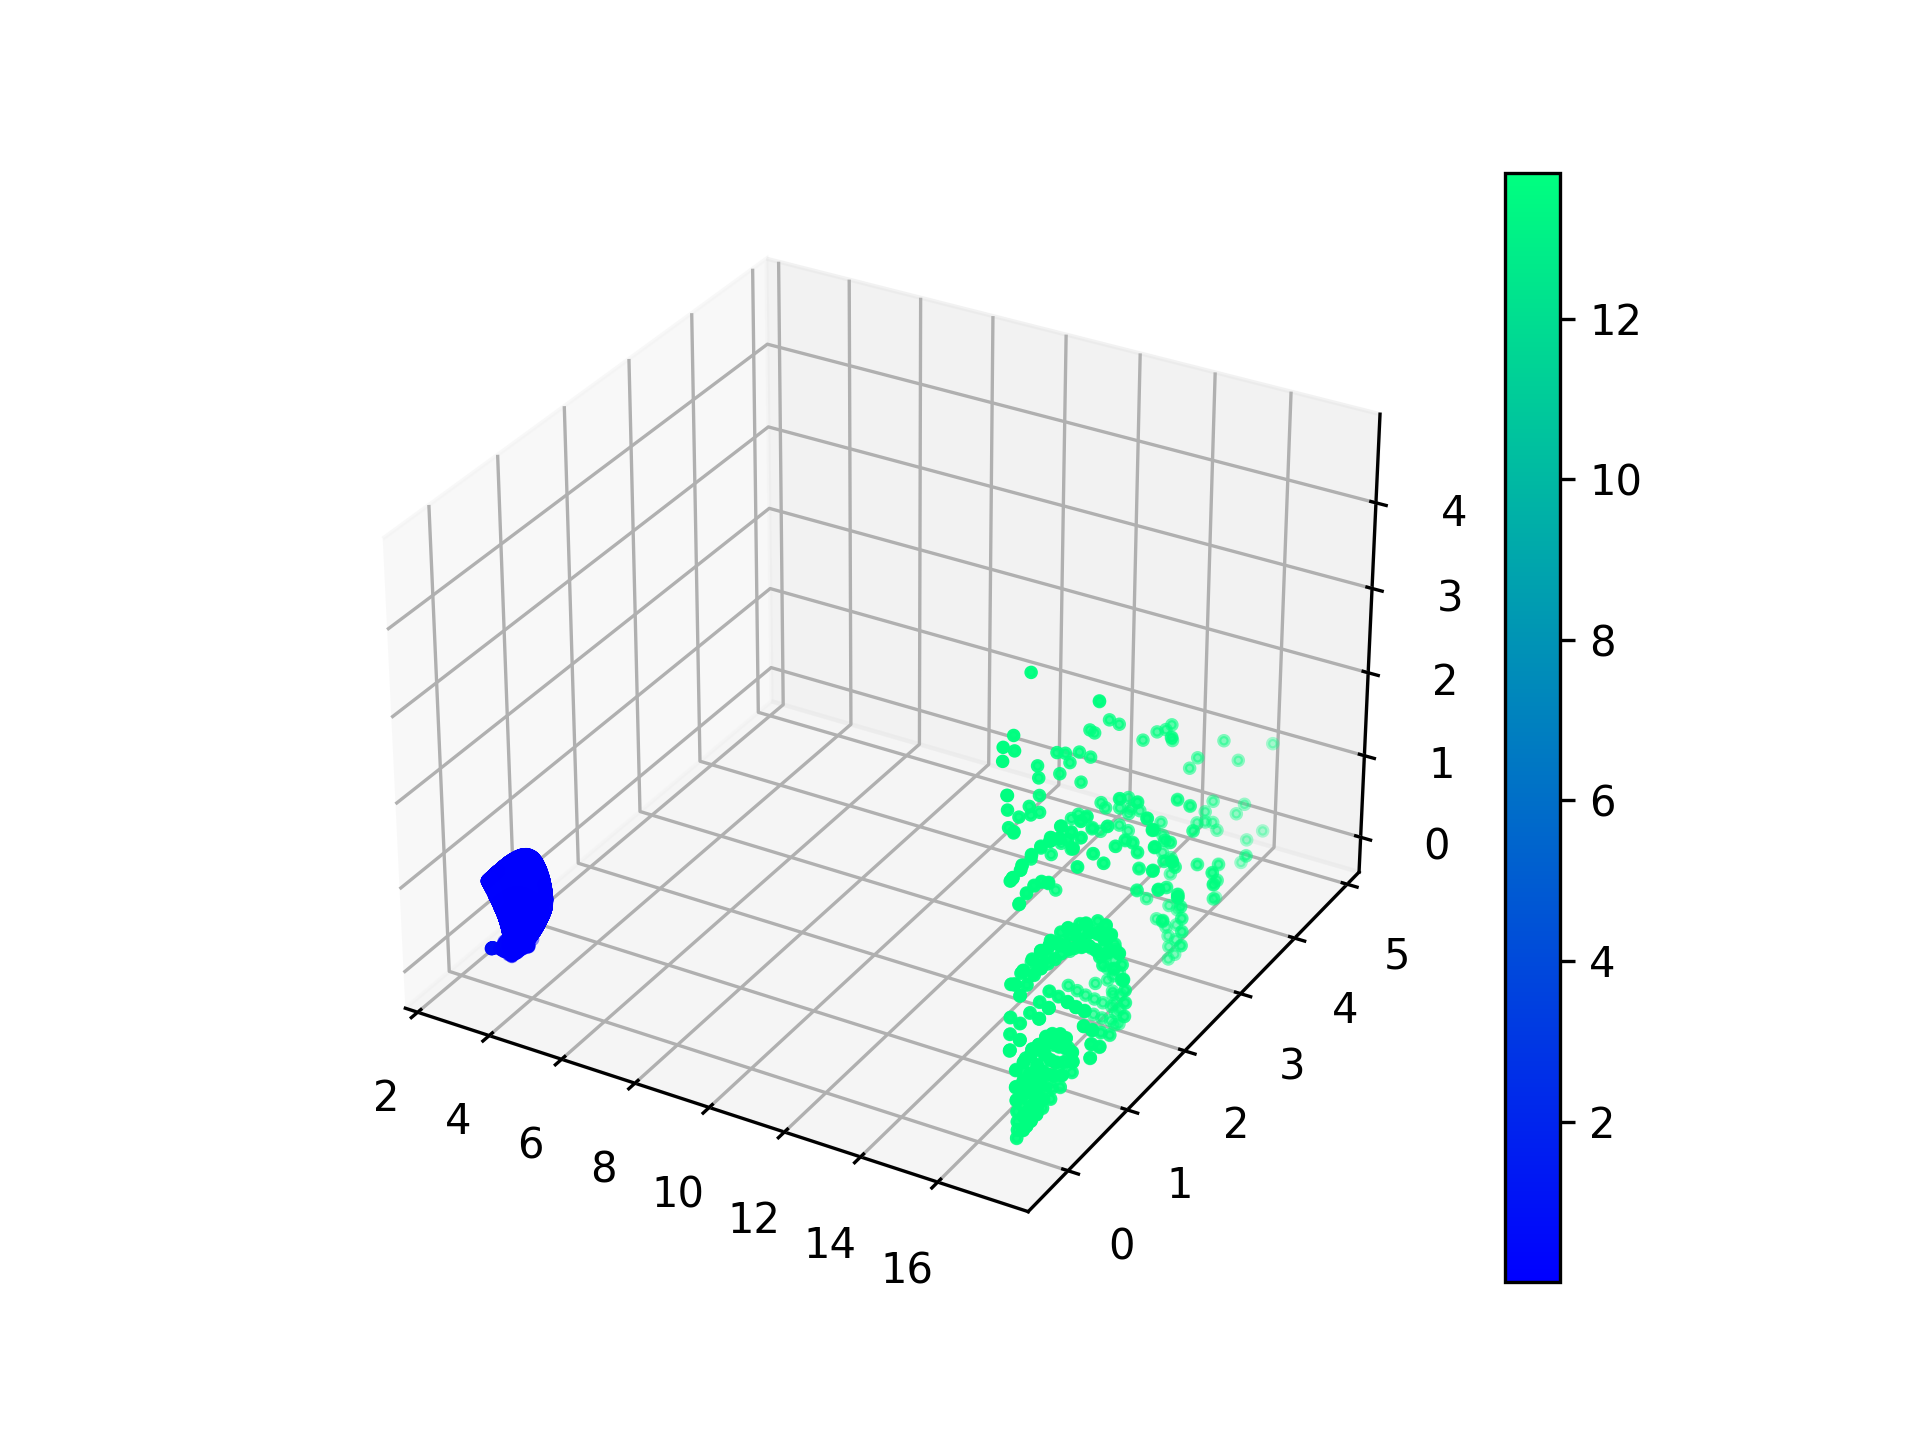
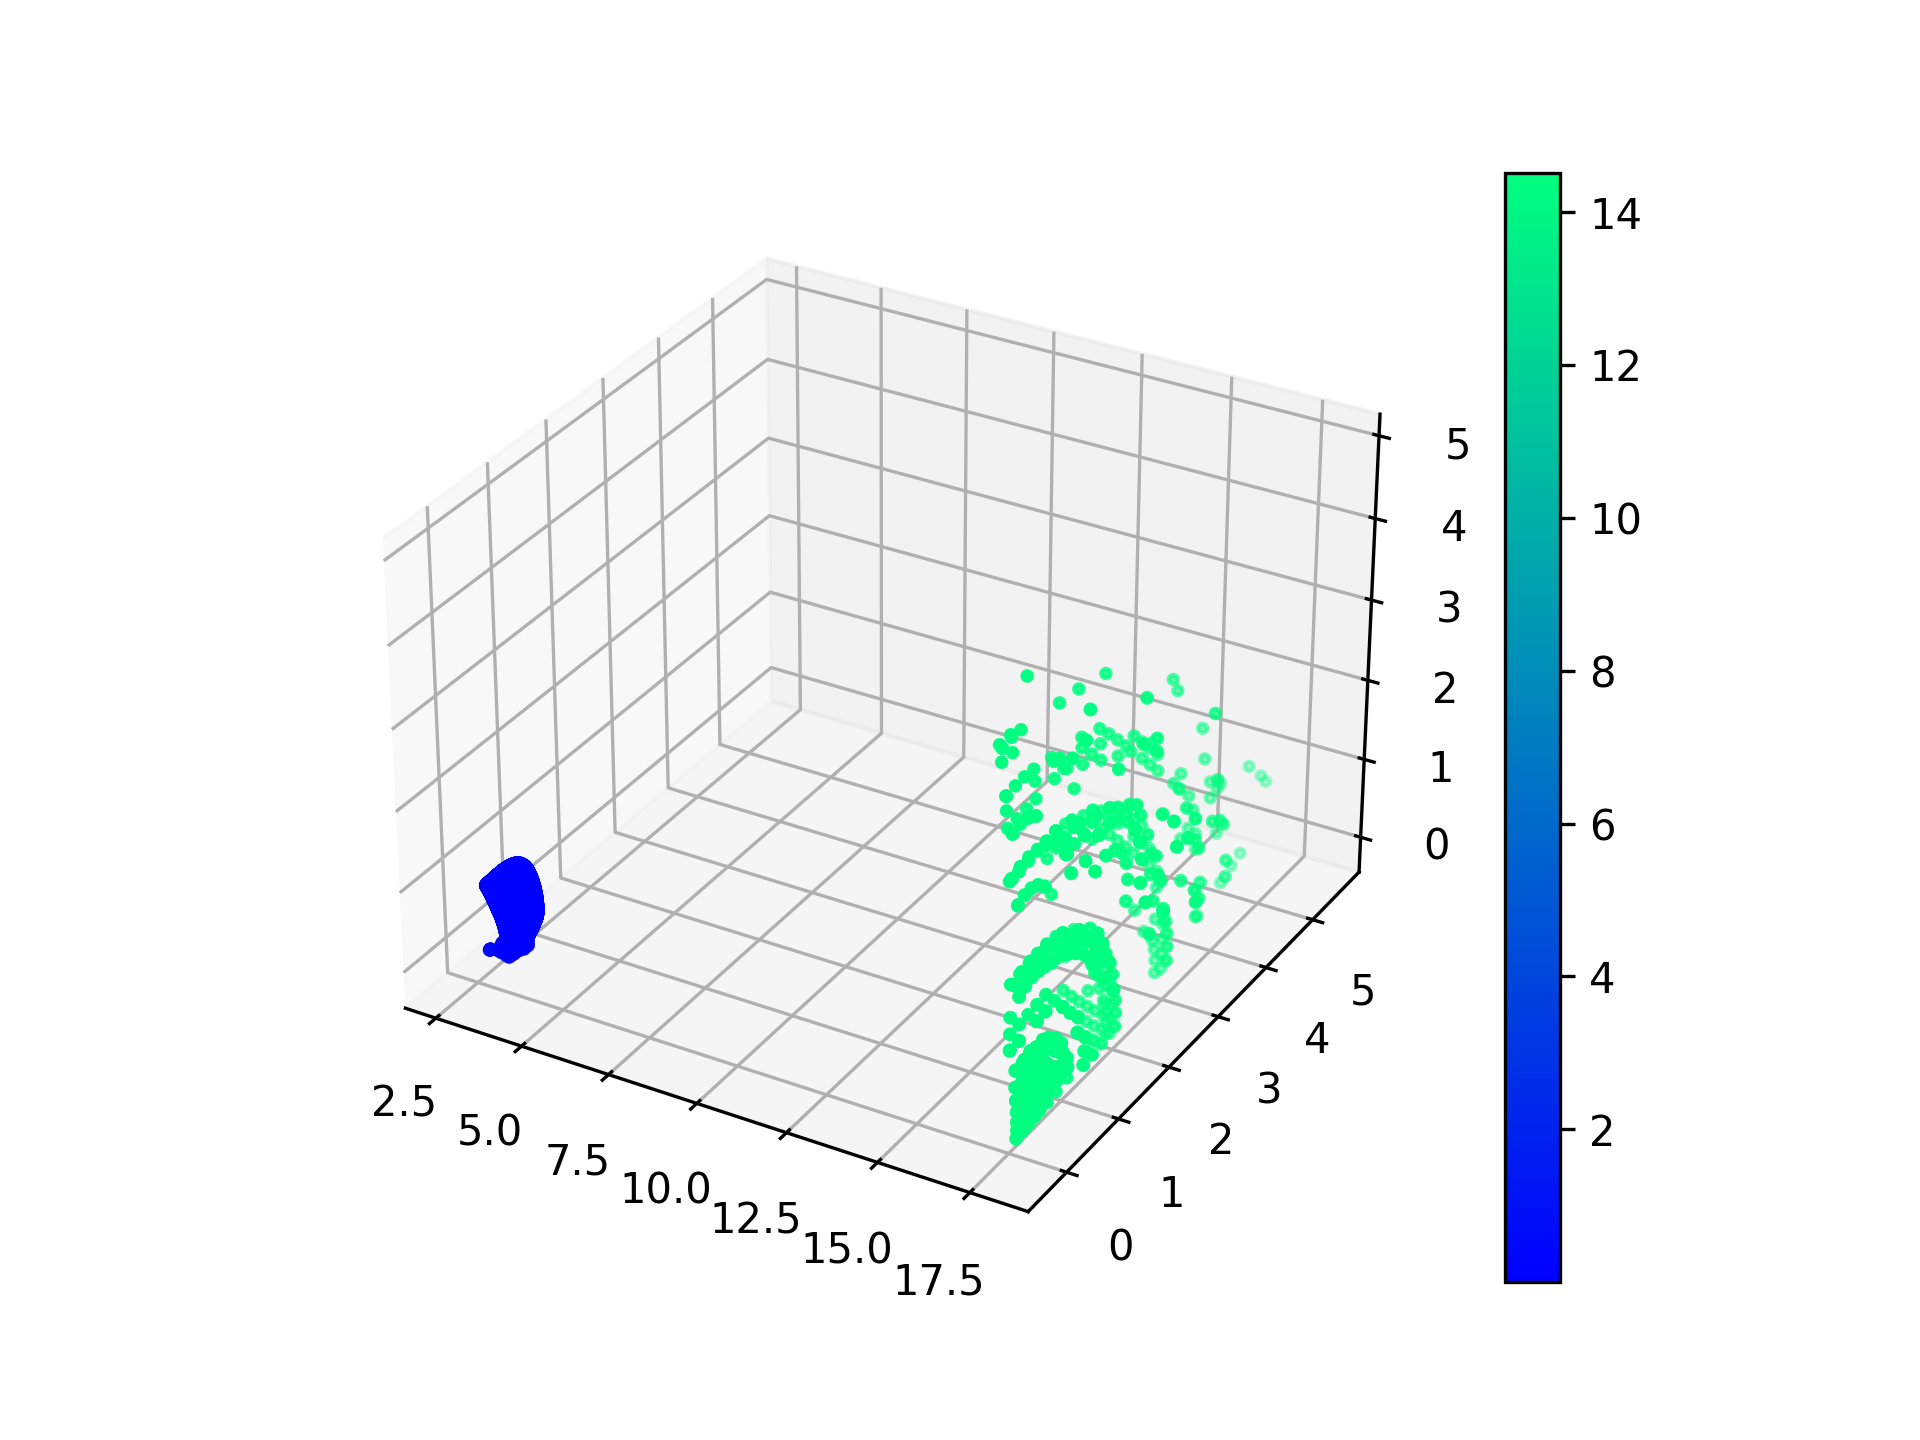
superrun09

diff --git a/SkeleNet.py b/SkeleNet.py
@@ -194,7 +194,7 @@ def skeletize(points : list,norms : list,threshDistance : float,tree : kdTree,an
             distc = getDistance(point,centerp[leng])
             ###NEW LOGIC
             #First will always determine if inside shape..
-            if i > 0 and (distc < crossdis or (dist < crossdis and crossdis < threshDistance)):
+            if i > 0 and (distc < crossdis or (dist < crossdis and crossdis < 10*threshDistance)):
                 #Next we want to check for convergence
                 if abs(tempr[leng] - tempr[leng - 1]) < threshDistance:
                     SkelePoints.append(centerp[leng])
@@ -223,7 +223,7 @@ def skeletize(points : list,norms : list,threshDistance : float,tree : kdTree,an
                 
                 #Then if we fall too close to the interface, but the cross isnt there either. Should alllow us to see thin areas well..
                 #Keeps us inside shape at the very least. usually getting too small happens past mid point//
-                elif dist < tempr[leng] + 10*threshDistance: 
+                elif dist < tempr[leng] + threshDistance: 
                     SkelePoints.append(centerp[leng - 1])
                     SkeleRad.append(getDistance(point,centerp[leng - 1]))
                     #if SkeleRad[len(SkeleRad)-1] > 0.3:
@@ -239,14 +239,14 @@ def skeletize(points : list,norms : list,threshDistance : float,tree : kdTree,an
                         atp[index].append(testp[leng - 1])
                         arad[index].append(SkeleRad[len(SkeleRad) - 1])
                     case = True
-                elif tempr[leng] < 10*threshDistance and crossdis > 10*threshDistance:
-                    SkelePoints.append(centerp[leng - 1])
-                    SkeleRad.append(getDistance(point,centerp[leng - 1]))
-                    if animate:
-                        acp[index].append(SkelePoints[len(SkelePoints) - 1])
-                        atp[index].append(testp[leng - 1])
-                        arad[index].append(SkeleRad[len(SkeleRad) - 1])
-                    case = True
+                #elif tempr[leng] < 10*threshDistance and crossdis > 10*threshDistance:
+                #    SkelePoints.append(centerp[leng - 1])
+                #    SkeleRad.append(getDistance(point,centerp[leng - 1]))
+                #    if animate:
+                #        acp[index].append(SkelePoints[len(SkelePoints) - 1])
+                #        atp[index].append(testp[leng - 1])
+                #        arad[index].append(SkeleRad[len(SkeleRad) - 1])
+                #    case = True
 
             #Check if the distance is way too far inside
             if i > 1 and dist < 10*threshDistance and crossdis > 10*threshDistance and not(case):
